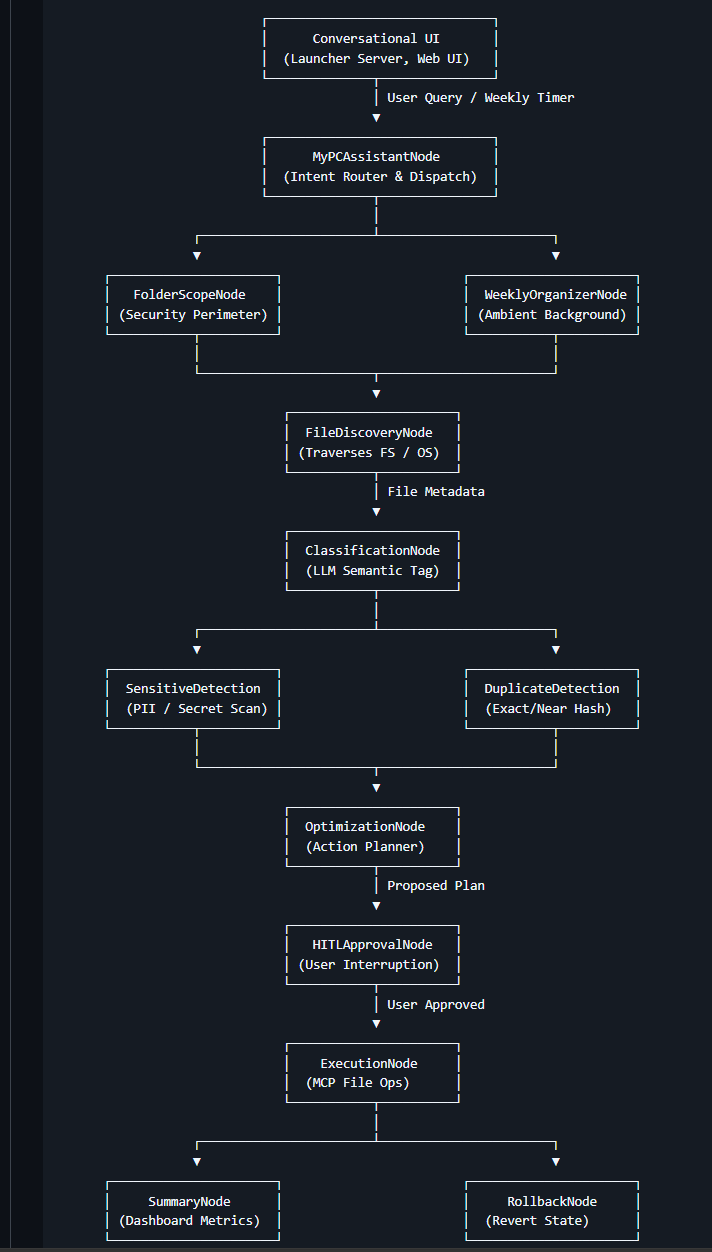
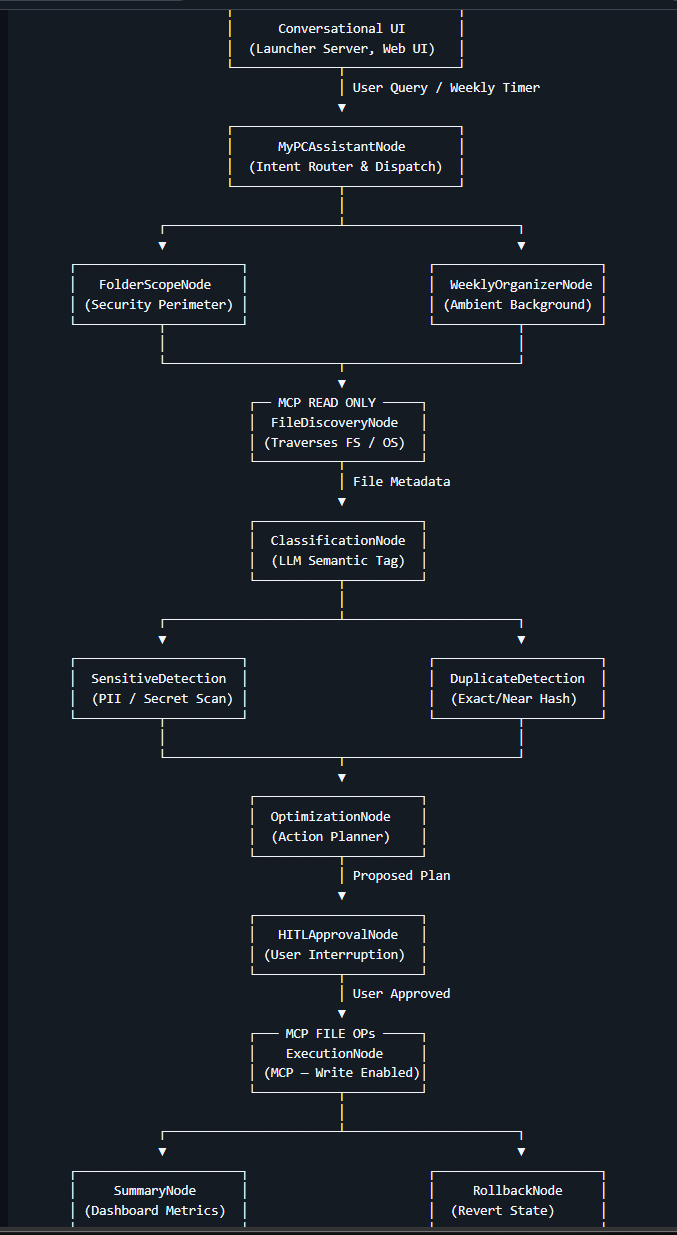
docs: make README shine with badges and tools

diff --git a/README.md b/README.md
@@ -1,5 +1,14 @@
 # 🧹 CleanSlate AI — Your Digital Estate Manager
-> **"AI Chief of Staff for Digital Organization and Storage Management.."**
+> **"AI Chief of Staff for Digital Organization and Storage Management."**
+
+[![Google Cloud Agent Runtime](https://img.shields.io/badge/Google%20Cloud-Agent%20Runtime-blue.svg)](https://cloud.google.com/vertex-ai)
+[![ADK 2.0](https://img.shields.io/badge/ADK-2.0-green.svg)](https://adk.dev)
+[![Python 3.11](https://img.shields.io/badge/Python-3.11%2B-blue.svg)](https://www.python.org/)
+[![Model Context Protocol](https://img.shields.io/badge/MCP-Enabled-purple.svg)](https://modelcontextprotocol.io/)
+[![Google Gemini](https://img.shields.io/badge/Google-Gemini_AI-orange.svg)](https://deepmind.google/technologies/gemini/)
+[![Semgrep](https://img.shields.io/badge/Security-Semgrep-red.svg)](https://semgrep.dev/)
+[![Built with Antigravity](https://img.shields.io/badge/Built%20with-Antigravity-black.svg)]()
+
 #### A secure, intelligent, multi‑step ADK 2.0 agent that organizes your PC, protects sensitive files, and restores digital clarity.
 ![CleanSlate AI](assets/cleanslate_corporate_banner.png)
 ---
@@ -138,7 +147,7 @@ CleanSlate AI is built entirely via **Spec-Driven Development (SDD)**, meaning e
       └──────────────────────┘                        └──────────────────────┘
 ```
 ---
-###  🛠️  4. Core Technologies Used
+###  🛠️  4. Core Technologies & Tools Used
 
 #### ✔ ADK Agent 2.0
 Multi step workflows